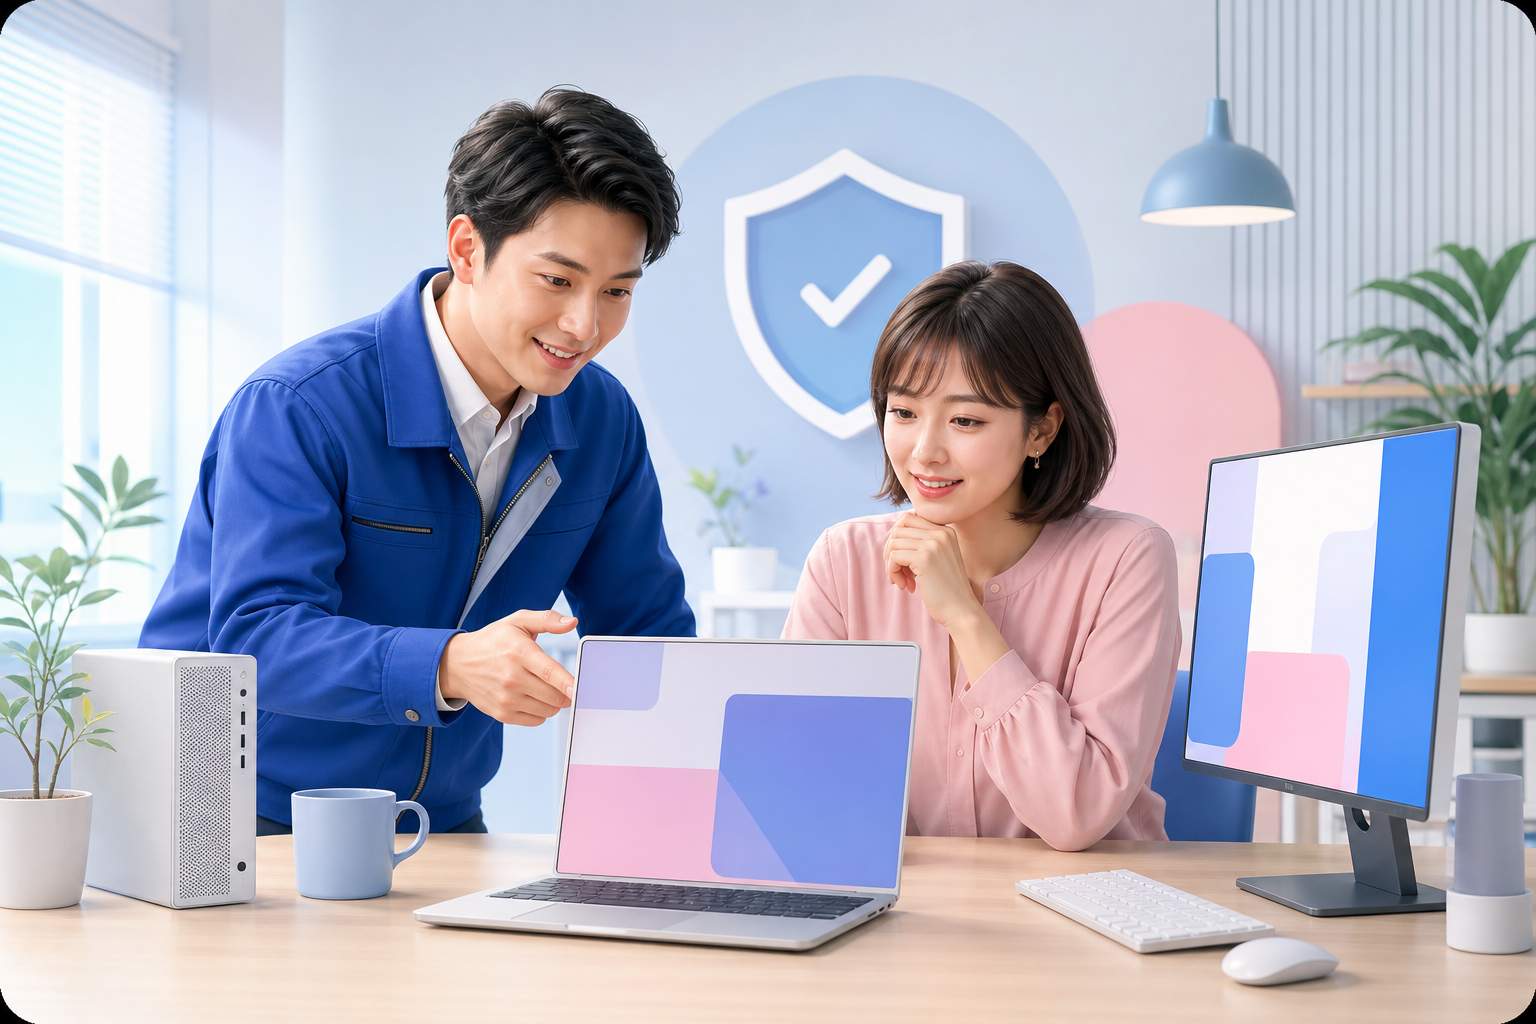
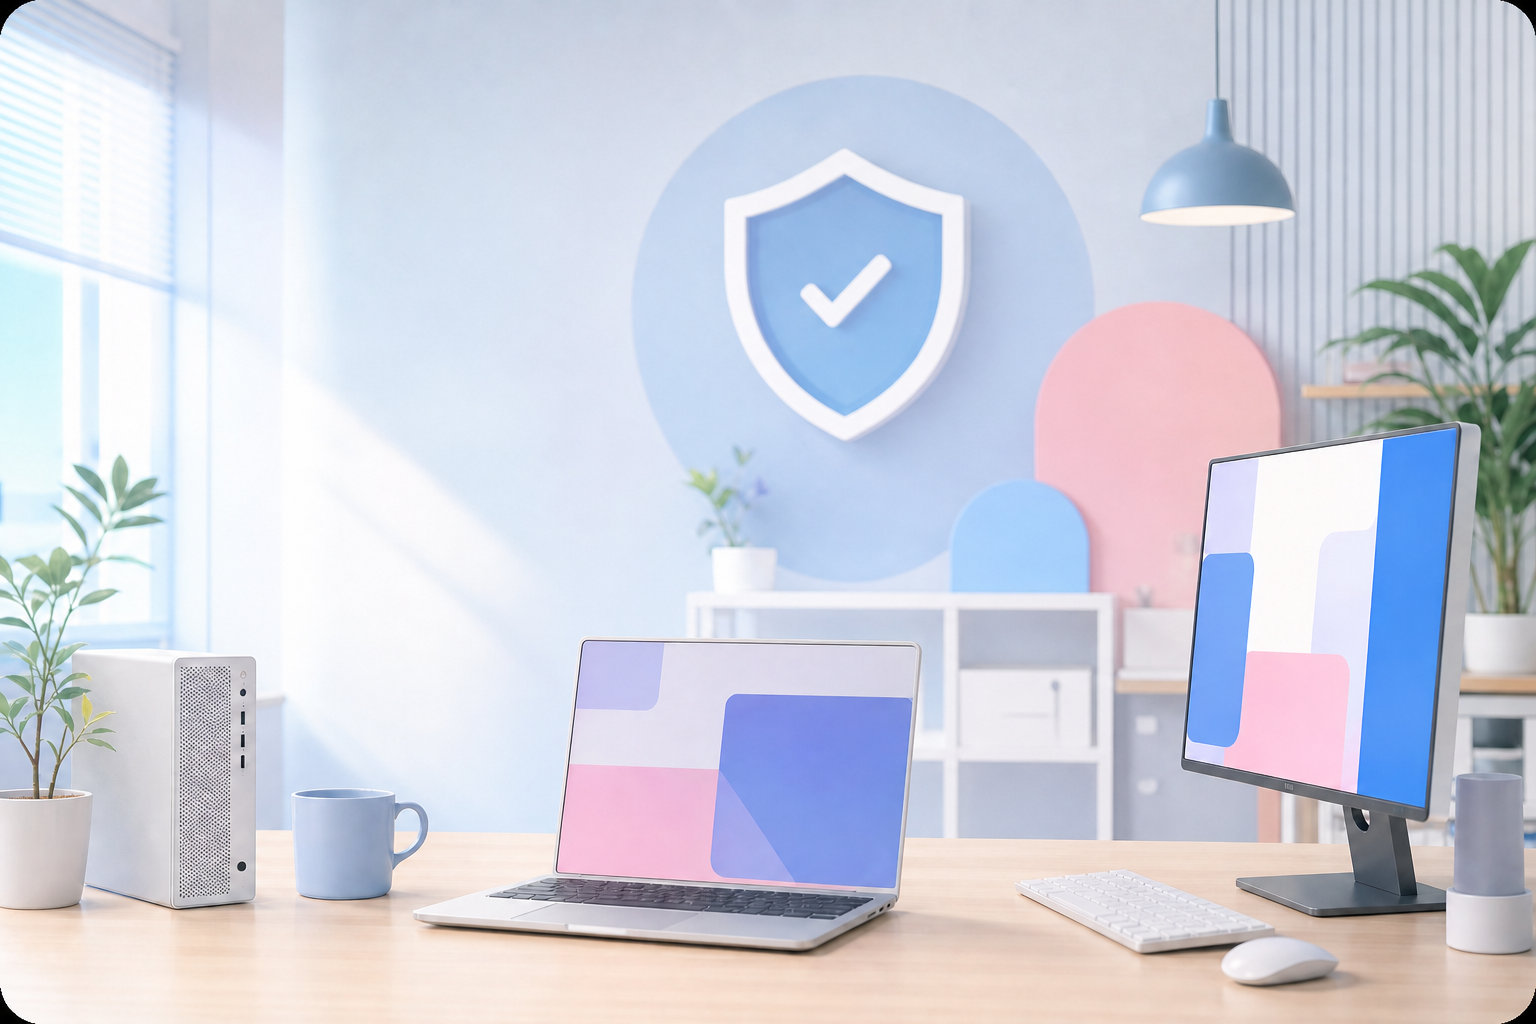
制作実績画像から人物を削除

Changed region(s): [[0.0938, 0.0625, 0.4688, 0.9375], [0.5, 0.25, 0.9062, 0.9062], [0.4062, 0.8438, 0.4375, 0.875]]

diff --git a/PROGRESS.md b/PROGRESS.md
@@ -123,3 +123,8 @@
 - `public/hero-colorful-sky.png` を追加。コピー・料金・電話番号・CV導線・右側のデザインボードは維持し、テキスト周辺だけ白のグラデーションで可読性を確保。
 - 検証: `npm run lint` / `npm run build` 成功。ヘッドレスChrome 1440px・390pxで `scrollWidth === clientWidth` を確認。スクリーンショットは `screenshots-hero-sky-desktop.png` / `screenshots-hero-sky-mobile.png`。
 - 追加調整: TOPヒーローの `grid-overlay` を外し、空の背景を升目なしでそのまま見せるように変更。
+
+### 2026-07-27: 制作実績ビジュアルから人物を削除
+
+- `public/work-pc-repair.png`、`public/work-truck.png`、`public/work-boat.png` を人物なしの画像へ差し替え。PC修理の作業環境、トラック、ボートを主役にし、既存のカラフルなトーンとデバイス・分析グラフィックを維持。
+- 検証: TOPの制作実績セクションをヘッドレスChrome 1440px・390pxで確認し、人物が残っていないこと、`scrollWidth === clientWidth` を確認。`npm run lint` / `npm run build` 成功。
